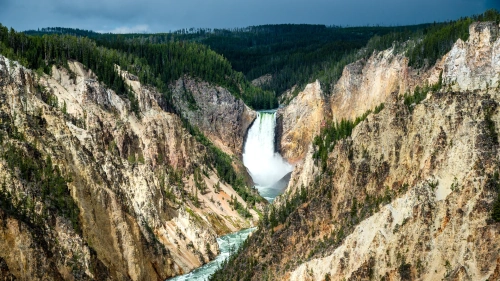
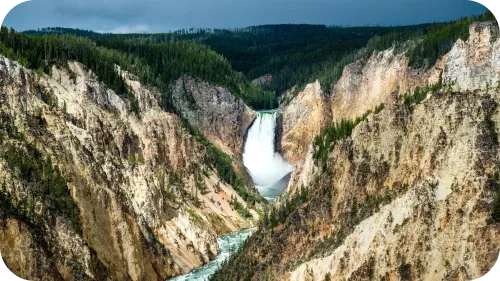
bio nav bar fix and rounded next.js images

diff --git a/components/NavBar.tsx b/components/NavBar.tsx
@@ -8,13 +8,13 @@ import {
 	Menu,
 	MenuItem,
 	Toolbar,
-	Typography
+	Typography,
 } from "@mui/material";
 import JoshblIcon from "./JoshblIcon";
 import MenuIcon from "@mui/icons-material/Menu";
 import styles from "../styles/Home.module.css";
-import { PageInfo } from "../types/PageInfo";
-import { tablet_hide, tablet_show } from "../styles/theme";
+import {PageInfo} from "../types/PageInfo";
+import {tablet_hide, tablet_show} from "../styles/theme";
 
 
 type NavBarProps = {
@@ -25,25 +25,25 @@ export class NavBar extends React.Component<NavBarProps, any> {
 	constructor(props: NavBarProps) {
 		super(props);
 		this.state = {
-			anchorEl: null
+			anchorEl: null,
 		};
 	}
 
 	handleOpenNavMenu = (event: React.MouseEvent<HTMLElement>) => {
 		this.setState({
-			anchorEl: event.currentTarget
+			anchorEl: event.currentTarget,
 		});
 	};
 
 	handleCloseNavMenu = () => {
 		this.setState({
-			anchorEl: null
+			anchorEl: null,
 		});
 	};
 
 
 	render() {
-		return <AppBar position={"static"} sx={{ mb: 2 }}>
+		return <AppBar position={"static"} sx={{mb: 2}}>
 			<Container maxWidth={"xl"}>
 				<Toolbar disableGutters>
 					{this.renderMobile()}
@@ -66,7 +66,7 @@ export class NavBar extends React.Component<NavBarProps, any> {
 		return <>
 			<Box sx={{
 				flexBasis: "auto",
-				...tablet_hide("flex")
+				...tablet_hide("flex"),
 			}}>
 				<IconButton
 					size="large"
@@ -80,17 +80,17 @@ export class NavBar extends React.Component<NavBarProps, any> {
 					anchorEl={this.state.anchorEl}
 					anchorOrigin={{
 						vertical: "bottom",
-						horizontal: "left"
+						horizontal: "left",
 					}}
 					keepMounted
 					transformOrigin={{
 						vertical: "top",
-						horizontal: "left"
+						horizontal: "left",
 					}}
 					open={Boolean(this.state.anchorEl)}
 					onClose={this.handleCloseNavMenu}
 					sx={{
-						...tablet_hide("block")
+						...tablet_hide("block"),
 					}}
 				>
 					{this.props.pages.map((page) => (
@@ -110,7 +110,7 @@ export class NavBar extends React.Component<NavBarProps, any> {
 				sx={{
 					color: "#7ee6f2",
 					flex: "auto",
-					...tablet_hide("flex")
+					...tablet_hide("flex"),
 				}} />
 		</>;
 	};
@@ -121,7 +121,7 @@ export class NavBar extends React.Component<NavBarProps, any> {
 						sx={{
 							color: "#7ee6f2",
 							...tablet_show("flex"),
-							mr: 1
+							mr: 1,
 						}}
 			/>
 
@@ -129,7 +129,7 @@ export class NavBar extends React.Component<NavBarProps, any> {
 				flexGrow: 1,
 				...tablet_show("flex"),
 				justifyContent: "center",
-				textAlign: "center"
+				textAlign: "center",
 			}}>
 				{this.props.pages.map((page) => (
 					<Button
@@ -141,7 +141,7 @@ export class NavBar extends React.Component<NavBarProps, any> {
 						sx={{
 							my: 2,
 							display: "block",
-							margin: "0rem 1rem"
+							margin: "0rem 1rem",
 						}}
 					>
 						{page.title}

diff --git a/components/ImageCarousel.tsx b/components/ImageCarousel.tsx
@@ -5,6 +5,8 @@ import React from "react";
 import {interests} from "../types/constants";
 import {desktop_hide, desktop_show} from "../styles/theme";
 import {KeyboardArrowLeft, KeyboardArrowRight} from "@mui/icons-material";
+import Image from "next/image";
+
 
 const AutoPlaySwipeableViews = autoPlay(SwipeableViews);
 
@@ -37,21 +39,28 @@ export default function ImageCarousel() {
 				{interests.map((interest, index) => (
 						<Box
 							display={"block"} justifyContent={"center"}
+
 							key={interest.name}>
 							{Math.abs(activeStep - index) <= 2 ? (
 								<>
-									<Box
+									{/*<Box*/}
+									{/*	component="img"*/}
+									{/*	sx={{*/}
+									{/*		borderRadius: "20px",*/}
+									{/*		height: size + "px",*/}
+									{/*		overflow: "hidden",*/}
+									{/*		width: "100%",*/}
+									{/*	}}*/}
+									{/*	src={interest.image}*/}
+									{/*	alt={interest.name}*/}
+									{/*/>*/}
 
-										component="img"
-										sx={{
-											borderRadius: "20px",
-											height: size + "px",
-											overflow: "hidden",
-											width: "auto",
-										}}
+									<Image
+										height={size + "px"}
+										width={"500px"}
+										objectFit={"contain"}
 										src={interest.image}
-										alt={interest.name}
-									/>
+										alt={interest.name} />
 									<Typography
 										variant={"h5"}>{interest.name}</Typography>
 								</>
@@ -91,7 +100,7 @@ export default function ImageCarousel() {
 
 	return (
 		<Box margin={"20px"} display={"flex"}
-			 justifyContent={"center"} width={"100%"}>
+			 justifyContent={"center"} maxWidth={"100%"}>
 			<Box
 				{...desktop_show("block")}
 				maxWidth={"md"}
